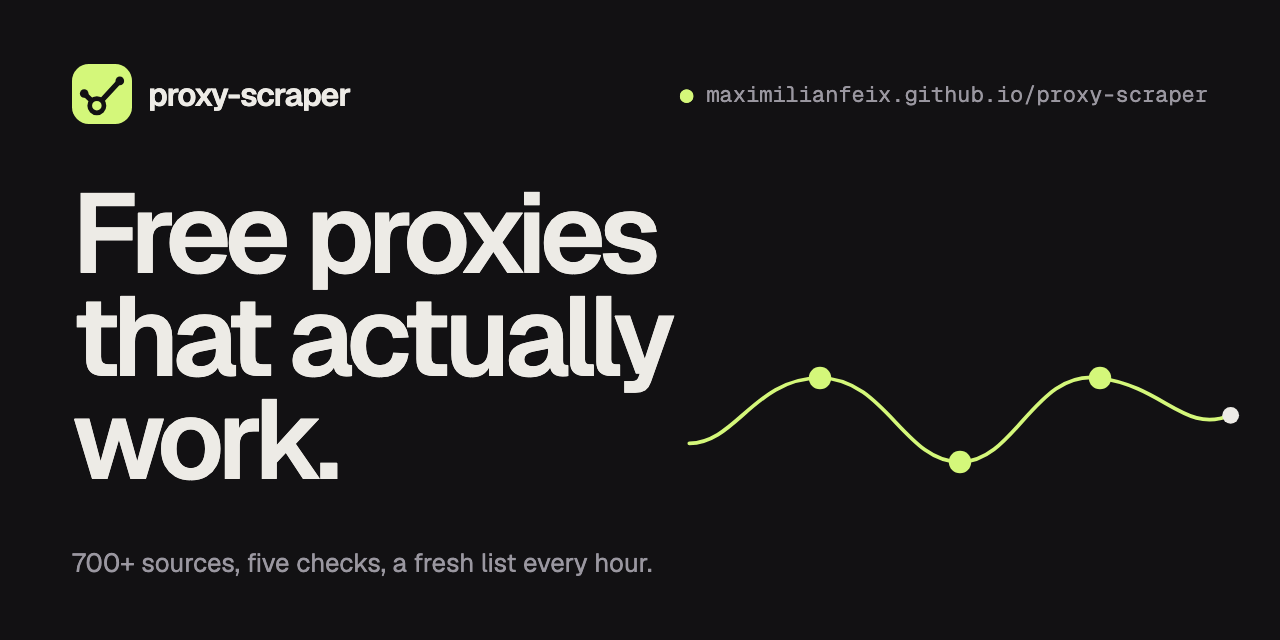
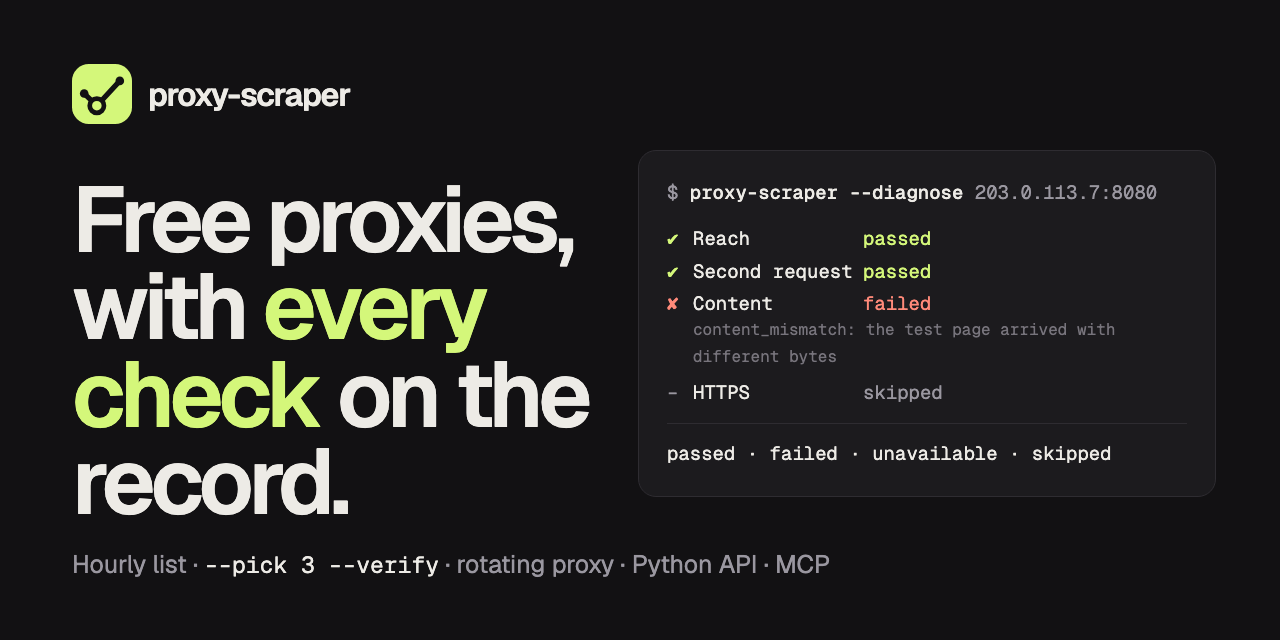
README: the launch video under the intro, the recording under the commands; social preview shows a --diagnose result instead of '700+ sources, five checks'

diff --git a/docs/social-preview.html b/docs/social-preview.html
@@ -2,18 +2,27 @@
 <html>
 <head>
 <meta charset="utf-8">
-<!-- preview image for links (1280×640), as PNG: repo settings → Social preview -->
-<link href="https://fonts.googleapis.com/css2?family=Geist:wght@400..700&family=Geist+Mono:wght@400&display=swap" rel="stylesheet">
+<!-- preview image for links (1280×640), as PNG: repo settings → Social preview.
+     The card on the right is the shape of real `proxy-scraper --diagnose` output (states and reason codes from
+     docs/check-states.md); the address is a documentation address (RFC 5737), not a real proxy -->
+<link href="https://fonts.googleapis.com/css2?family=Geist:wght@400..700&family=Geist+Mono:wght@400;500&display=swap" rel="stylesheet">
 <style>
   html, body { margin: 0; width: 1280px; height: 640px; overflow: hidden; }
   body { background: #121113; color: #EDEBE6; font-family: "Geist", sans-serif; box-sizing: border-box; padding: 64px 72px; position: relative; }
   .brand { display: flex; align-items: center; gap: 16px; font-size: 32px; font-weight: 600; letter-spacing: -1px; }
   .brand svg { width: 60px; height: 60px; }
-  h1 { margin: 58px 0 0; font-size: 112px; line-height: .92; font-weight: 600; letter-spacing: -6px; }
-  .sub { position: absolute; left: 72px; bottom: 60px; font-size: 26px; color: #9A97A0; }
-  .route { position: absolute; right: 40px; bottom: 150px; width: 560px; }
-  .addr { position: absolute; right: 72px; top: 80px; font-family: "Geist Mono", monospace; font-size: 22px; color: #9A97A0; }
-  .addr b { color: #D4F77A; font-weight: 400; }
+  h1 { margin: 52px 0 0; font-size: 92px; line-height: .95; font-weight: 600; letter-spacing: -4.5px; width: 600px; }
+  h1 em { font-style: normal; color: #D4F77A; }
+  .sub { position: absolute; left: 72px; bottom: 60px; font-size: 25px; color: #9A97A0; }
+  .sub code { font-family: "Geist Mono", monospace; font-size: 23px; color: #EDEBE6; }
+  .card { position: absolute; right: 64px; top: 150px; width: 520px; background: #1C1B1E; border: 1px solid #2E2C31; border-radius: 18px;
+          padding: 26px 28px; font-family: "Geist Mono", monospace; font-size: 19px; line-height: 1.7; }
+  .cmd { color: #9A97A0; margin-bottom: 14px; }
+  .cmd b { color: #EDEBE6; font-weight: 500; }
+  .row { display: grid; grid-template-columns: 26px 170px 1fr; }
+  .ok { color: #D4F77A; } .no { color: #FF8A7A; } .na { color: #9A97A0; }
+  .why { color: #77747C; font-size: 16px; margin: -4px 0 6px 26px; }
+  .verdict { margin-top: 14px; padding-top: 14px; border-top: 1px solid #2E2C31; color: #EDEBE6; }
 </style>
 </head>
 <body>
@@ -21,13 +30,16 @@
     <svg viewBox="0 0 64 64"><rect width="64" height="64" rx="18" fill="#D4F77A"/><path d="M13 31.5 26.5 44.5 51 18" fill="none" stroke="#121113" stroke-width="5.5" stroke-linecap="round" stroke-linejoin="round"/><circle cx="13" cy="31.5" r="4.6" fill="#121113"/><circle cx="51" cy="18" r="4.6" fill="#121113"/><circle cx="26.5" cy="44.5" r="7.6" fill="#D4F77A" stroke="#121113" stroke-width="5"/></svg>
     proxy-scraper
   </div>
-  <h1>Free proxies<br>that actually<br>work.</h1>
-  <svg class="route" viewBox="0 0 600 180">
-    <path d="M10 130 C 60 130 80 60 150 60 S 240 150 300 150 S 380 50 450 60 S 540 120 590 100" fill="none" stroke="#D4F77A" stroke-width="4" stroke-linecap="round"/>
-    <circle cx="150" cy="60" r="12" fill="#D4F77A"/><circle cx="300" cy="150" r="12" fill="#D4F77A"/><circle cx="450" cy="60" r="12" fill="#D4F77A"/>
-    <circle cx="590" cy="100" r="9" fill="#EDEBE6"/>
-  </svg>
-  <div class="sub">700+ sources, five checks, a fresh list every hour.</div>
-  <div class="addr"><b>●</b> maximilianfeix.github.io/proxy-scraper</div>
+  <h1>Free proxies, with <em>every check</em> on the record.</h1>
+  <div class="card">
+    <div class="cmd">$ <b>proxy-scraper --diagnose</b> 203.0.113.7:8080</div>
+    <div class="row"><span class="ok">✔</span><span>Reach</span><span class="ok">passed</span></div>
+    <div class="row"><span class="ok">✔</span><span>Second request</span><span class="ok">passed</span></div>
+    <div class="row"><span class="no">✘</span><span>Content</span><span class="no">failed</span></div>
+    <div class="why">content_mismatch: the test page arrived with different bytes</div>
+    <div class="row"><span class="na">–</span><span>HTTPS</span><span class="na">skipped</span></div>
+    <div class="verdict">passed · failed · unavailable · skipped</div>
+  </div>
+  <div class="sub">Hourly list · <code>--pick 3 --verify</code> · rotating proxy · Python API · MCP</div>
 </body>
 </html>

diff --git a/README.md b/README.md
@@ -36,18 +36,18 @@ https://github.com/user-attachments/assets/b99c1d8f-5bce-4a52-a8a9-b9c2c726301b
 
 <sub>21 seconds · real interface, example numbers, documentation IPs · <a href="docs/video/proxy-scraper.mp4">mp4</a></sub>
 
-<div align="center">
-<img src="docs/demo/checks.gif" alt="Terminal recording: proxy-scraper --pick 2 --verify --https-only prints two proxies and says on stderr why the other four were left out; proxy-scraper --diagnose shows each check of one proxy with its result" width="880">
-</div>
-
-<sub>A real terminal recording, made against six simulated proxies on localhost ([reproduce it](docs/demo/)). It shows how results are reported. It measures nothing about public proxies.</sub>
-
 **Try it** – no install needed, `uvx` comes with [uv](https://docs.astral.sh/uv/) (`pipx run` does the same):
 
 ```bash
 uvx proxy-scraper-cli --pick 3 --verify               # up to 3 proxies from the hourly list that pass right now, from your network
 uvx proxy-scraper-cli --diagnose socks5://HOST:PORT   # one proxy, check by check: what it did and what it didn't
 ```
+
+<div align="center">
+<img src="docs/demo/checks.gif" alt="Terminal recording: proxy-scraper --pick 2 --verify --https-only prints two proxies and says on stderr why the other four were left out; proxy-scraper --diagnose shows each check of one proxy with its result" width="880">
+</div>
+
+<sub>A real terminal recording, made against six simulated proxies on localhost ([reproduce it](docs/demo/)). It shows how results are reported. It measures nothing about public proxies.</sub>
 
 The package is `proxy-scraper-cli` on PyPI (the plain name is taken). Once [installed](#install), the command is `proxy-scraper`. `--verify` and `--diagnose` need version 1.30 or newer.
 
